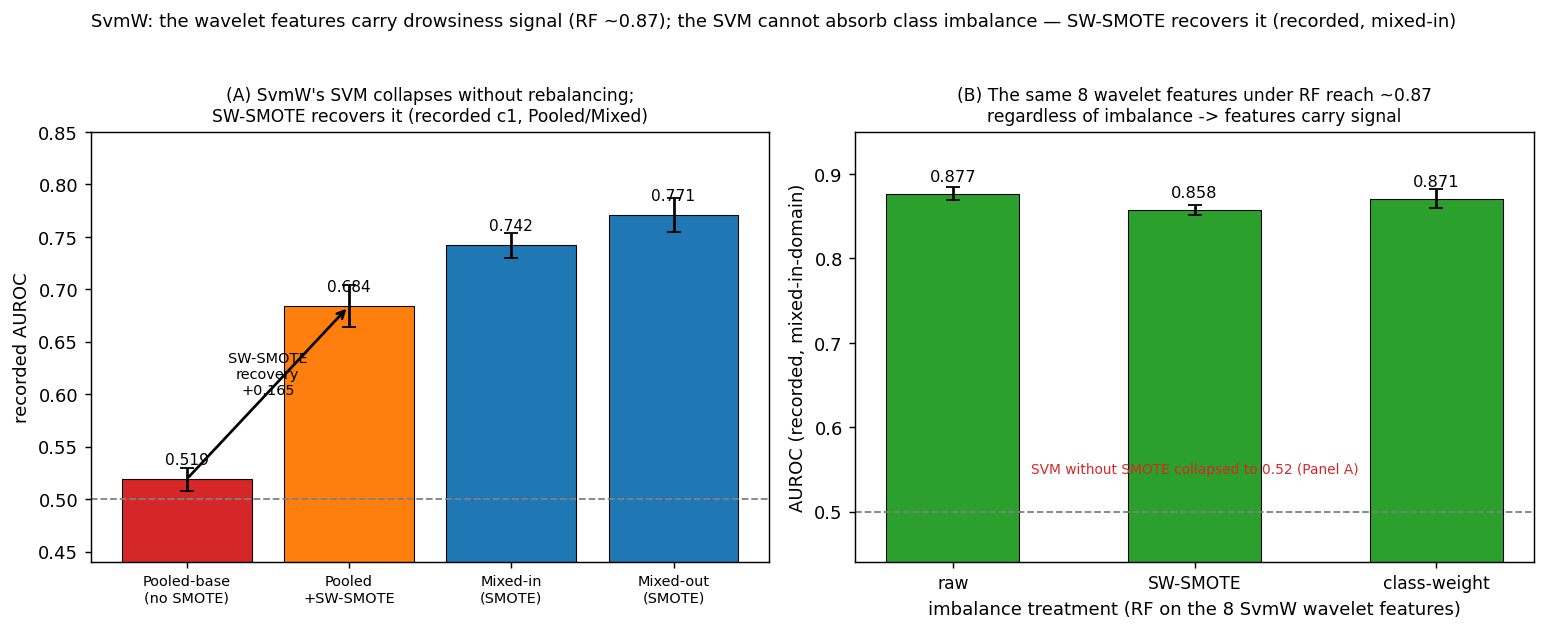
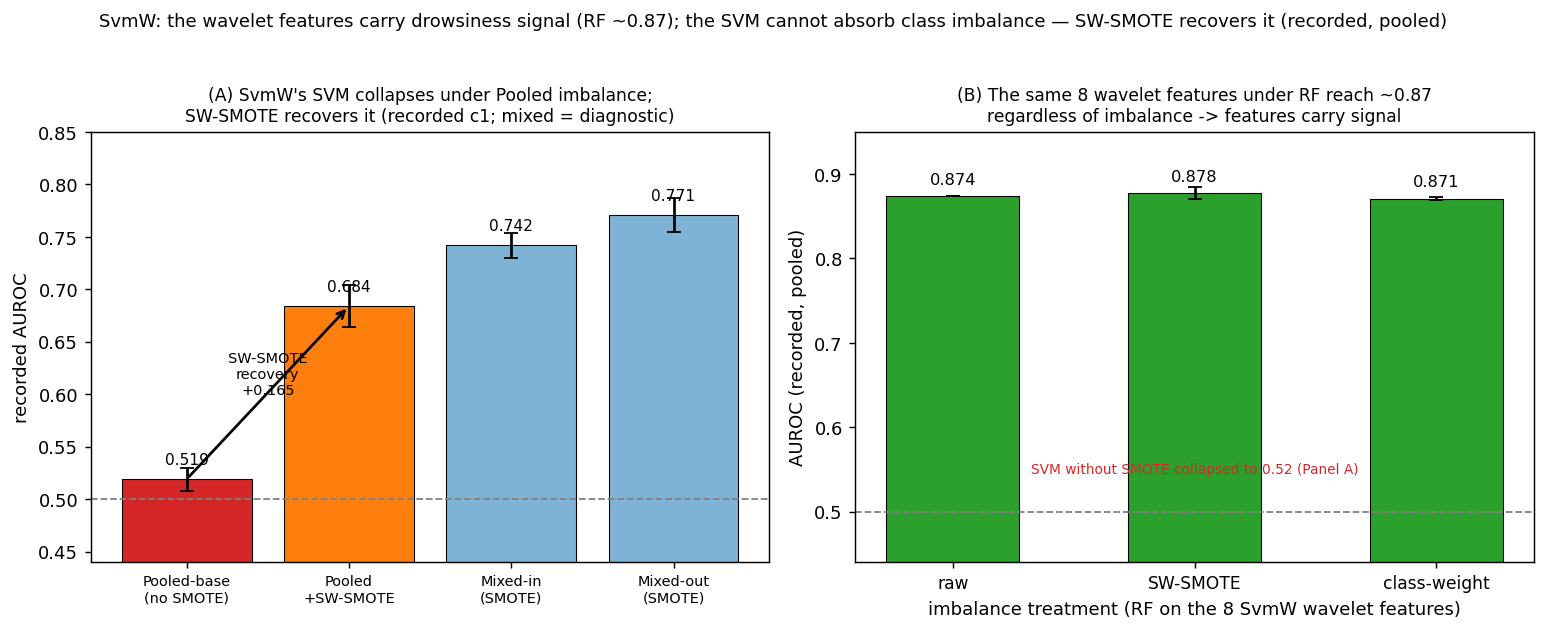
docs(exp3): retarget Part B probes to pooled (deployment regime); mixed-in kept as diagnostic
Ran the D1b/D4/D5 mechanism probes under pooled (train on all 87 recordings,
evaluate on the whole cohort) per the pooled-anchoring decision. All three
acceptance criteria pass under pooled and reproduce the mixed-in diagnostic:
- B1 dose-response saturates by k~=20 (anchors RF-fs 0.795 / RF-nofs 0.866)
- B2 SvmA 36 steering: RF 0.893 vs RBF-SVM 0.544 (all-165 RF 0.904) -> learner ceiling
- B3 SvmW 8 wavelet -> RF ~0.87 (0.874/0.878/0.871) regardless of imbalance
Updates figs 5-7, D1b/D4/D5 text, the status/migration notes, and Part B of the
plan doc; fixes the stale plan-doc link.

diff --git a/docs/experiments/results/exp3-analysis/c1_recorded_value_analysis.md b/docs/experiments/results/exp3-analysis/c1_recorded_value_analysis.md
@@ -19,16 +19,17 @@ performance.
 - **Reproducibility:** `scripts/python/analysis/exp3_c1_recorded_value_analysis.py`. Tools:
   scipy / numpy / pandas / matplotlib (Dunn, Cliff's δ, Scheirer–Ray–Hare implemented in-script).
 
-> **Status (2026-08-01).** The mixed-in Part B probes behind Figures 5–7 are complete. The
-> Pooled-SW-SMOTE and RF-nofs descriptive cells remain provisional while the final RF-nofs
-> extension completes (51/60 c1 cells at this checkpoint); regenerate the summary tables and
-> statistical tests after that final artifact set is available.
+> **Status (2026-08-01).** The Part B mechanism probes (Figures 5–7) are complete under **pooled**
+> (the deployment regime), with **mixed-in retained as a diagnostic** that reproduces every claim.
+> The Pooled-SW-SMOTE and RF-nofs descriptive cells remain provisional while the final RF-nofs
+> extension completes; regenerate the summary tables and statistical tests after that final artifact
+> set is available.
 
-> **Migration in progress — see [mixed_regime_migration.md](mixed_regime_migration.md).** The two
+> **Migration in progress — see [within_retirement_plan.md](within_retirement_plan.md).** The two
 > Within modes are being retired because `within` trains only on the target group, discarding the
-> other group's data. The deployable regimes retained for reporting are Pooled and Mixed. The
-> Part B mechanism probes now use `mixed_in`; Part A will rebuild Sections A–E without the Within
-> columns once the RF-nofs seed extension is complete.
+> other group's data. The deployable regimes retained for reporting are Pooled (primary) and Mixed
+> (diagnostic). The Part B mechanism probes (§D1b, §D4, §D5) now report `pooled`; Part A will
+> rebuild Sections A–E without the Within columns once the RF-nofs seed extension is complete.
 
 ---
 
@@ -122,26 +123,30 @@ dependence **saturates by k≈20**, so it is not an open-ended benefit of ever-m
 
 ### D1b. Feature-count dose-response — where does the gain saturate?
 
-The controlled probe is complete under **mixed-in-domain** evaluation (plain RF, RF-importance
-top-k, recorded evaluation, 3 seeds). It compares selecting top-k after SW-SMOTE (the c1 pipeline
-order) with selecting on the natural training data.
+The controlled probe is complete under **pooled** evaluation — the deployment regime that scores
+the model on the whole 87-recording cohort (plain RF, RF-importance top-k, recorded evaluation, 3
+seeds). It compares selecting top-k after SW-SMOTE (the c1 pipeline order) with selecting on the
+natural training data.
 
 **The dependence is not monotone to 165 — it saturates by k≈20 in both selection orders.** The
-c1-order curve rises sharply before k=20 and stays around 0.90 thereafter; natural-data selection
-is already near that plateau by k=5–10. The recorded mixed-in anchors are RF-fs k=10 = 0.719 and
-RF-nofs k=165 = 0.829, which are not directly comparable to the simplified probe's absolute
-levels. The transferable result is the saturation shape, not the raw level.
+c1-order curve rises sharply before k=20 (0.69 at k=5 → 0.90 at k=20) and stays around 0.91
+thereafter; natural-data selection is already near that plateau by k=5–10. The recorded pooled
+anchors are RF-fs (Pooled-SW-SMOTE) = 0.795 and RF-nofs = 0.866, which are not directly comparable
+to the simplified probe's absolute levels. The transferable result is the saturation shape, not the
+raw level. The same k≈20 knee **reproduces under mixed-in** (the diagnostic regime; anchors 0.719 /
+0.829).
 
-Practical reading: **the mixed-in probe supports a compact feature set (approximately 20
-vehicle-dynamics features); the top-10 arm's low recorded value is primarily consistent with the
+Practical reading: **the probe supports a compact feature set (approximately 20 vehicle-dynamics
+features); the top-10 arm's low recorded value is primarily consistent with the
 SMOTE-before-selection order rather than with ten features being intrinsically insufficient.**
 
 ![RF feature-count dose-response](figures/c1_recorded/fig5_feature_dose_response.png)
 
-*Figure 5. Recorded mixed-in-domain AUROC vs feature count k. Both selection orders plateau by
-k≈20; the recorded c1 anchors (RF-fs k=10 = 0.719 ★, RF-nofs k=165 = 0.829 ◆) bracket the curve.
-Probe = plain RF with fixed hyperparameters and a simplified evaluation split, so absolute levels
-are not directly comparable to the tuned c1 pipeline; the saturation shape is what transfers.*
+*Figure 5. Recorded pooled AUROC vs feature count k. Both selection orders plateau by k≈20; the
+recorded c1 anchors (RF-fs k=10 = 0.795 ★, RF-nofs k=165 = 0.866 ◆) sit below the curve. Probe =
+plain RF with fixed hyperparameters and a simplified evaluation split, so absolute levels are not
+directly comparable to the tuned c1 pipeline; the saturation shape is what transfers (and it
+reproduces under mixed-in, the diagnostic regime).*
 
 ### D2. Decision spread / degeneracy (specificity, predicted-positive rate)
 
@@ -188,23 +193,22 @@ SvmA records the lowest AUROC of all methods (A: 0.53–0.60 within/mixed; 0.481
 recorded-value basis the cause is the *learner*, not the steering feature set and not class
 imbalance.
 
-**Same features, different learner (recorded mixed-in-domain).** SvmA's own 36 steering features
-fed to RF reach 0.877, close to the full 165-feature vehicle set (0.889), whereas an RBF-SVM
-(SvmA's learner) on the same 36 features gives only 0.544, matching the recorded SvmA mixed-in
-band (0.532, A). The steering feature set is therefore not the bottleneck under the recorded
-protocol: it yields as much recorded separability as the full set when a tree ensemble reads it;
-the RBF-SVM cannot.
+**Same features, different learner (recorded pooled).** SvmA's own 36 steering features fed to RF
+reach 0.893, close to the full 165-feature vehicle set (0.904), whereas an RBF-SVM (SvmA's learner)
+on the same 36 features gives only 0.544, matching the recorded SvmA Pooled-SW-SMOTE band (0.569,
+A). The steering feature set is therefore not the bottleneck under the recorded protocol: it yields
+as much recorded separability as the full set when a tree ensemble reads it; the RBF-SVM cannot.
 
-| Feature set → learner | Recorded AUROC |
+| Feature set → learner | Recorded AUROC (pooled) |
 |---|---|
-| SvmA 36 steering → RF | 0.877 |
+| SvmA 36 steering → RF | 0.893 |
 | SvmA 36 steering → RBF-SVM | 0.544 |
-| all 165 vehicle → RF | 0.889 |
+| all 165 vehicle → RF | 0.904 |
 
-**Imbalance treatment does not lift the SVM.** Under the mixed-in recorded split, neither
-SW-SMOTE nor class weighting moves the RBF-SVM off approximately 0.54, while RF stays around
-0.87–0.88 across the same treatments. Class imbalance is therefore not the cause of SvmA's low
-score in this regime.
+**Imbalance treatment does not lift the SVM.** Under the pooled recorded split, neither SW-SMOTE
+nor class weighting moves the RBF-SVM off approximately 0.55 (0.558 / 0.557 / 0.544), while RF stays
+around 0.88–0.90 across the same treatments. Class imbalance is therefore not the cause of SvmA's
+low score. (The learner gap reproduces as a diagnostic under mixed-in: RF 0.877 vs RBF-SVM 0.544.)
 
 **SvmA's bottom rank is thus a learner limitation** (RBF-SVM on steering features), not a deficient
 feature set and not an imbalance artefact — unlike SvmW, whose Pooled degeneracy *is* a
@@ -212,10 +216,11 @@ decision-function artefact that SW-SMOTE repairs (D2).
 
 ![SvmA learner vs feature effect](figures/c1_recorded/fig6_svma_learner_vs_feature.png)
 
-*Figure 6. Recorded mixed-in-domain AUROC. (A) The same 36 steering features reach the full-set
-ceiling under RF (0.877 vs 0.889) but only 0.544 under the RBF-SVM that SvmA uses (≈ its recorded
-c1 value 0.532). (B) Neither SW-SMOTE nor class weighting lifts the RBF-SVM off ~0.54, while RF
-stays ~0.87–0.88. Probe = plain learners on a recorded-style split; the learner contrast is the point.*
+*Figure 6. Recorded pooled AUROC. (A) The same 36 steering features reach the full-set ceiling
+under RF (0.893 vs 0.904) but only 0.544 under the RBF-SVM that SvmA uses (≈ its recorded c1
+Pooled-SW-SMOTE value 0.569). (B) Neither SW-SMOTE nor class weighting lifts the RBF-SVM off ~0.55,
+while RF stays ~0.88–0.90. Probe = plain learners on a recorded-style split; the learner contrast is
+the point (and it reproduces under mixed-in, the diagnostic regime).*
 
 ### D5. SvmW under imbalance: a recoverable learner degeneracy, not a feature deficit
 
@@ -235,22 +240,23 @@ modes (A).
 | +SW-SMOTE | 0.684 | 0.504 | 0.506 | 0.199 |
 
 **The features carry the signal.** The failure is the SVM's, not the feature set's: feeding SvmW's
-8 steering-wheel wavelet features to RF (recorded-style, mixed-in) gives ~0.87 under *every*
-imbalance treatment — raw 0.877, SW-SMOTE 0.858, class-weight 0.871 (Fig 7B) — so a robust learner
+8 steering-wheel wavelet features to RF (recorded-style, pooled) gives ~0.87 under *every*
+imbalance treatment — raw 0.874, SW-SMOTE 0.878, class-weight 0.871 (Fig 7B) — so a robust learner
 reads the recorded signal from them without any rebalancing, and once imbalance is handled the SVM
 itself reaches 0.74–0.80. SvmW's low Pooled score is therefore a *recoverable* decision-function
 degeneracy under imbalance — the mirror image of SvmA, whose low score is a learner ceiling that
-rebalancing does not lift (D4).
+rebalancing does not lift (D4). (The ~0.87 RF read reproduces as a diagnostic under mixed-in:
+0.877 / 0.858 / 0.871.)
 
 ![SvmW imbalance collapse and SW-SMOTE recovery](figures/c1_recorded/fig7_svmw_imbalance_recovery.png)
 
 *Figure 7. (A) Recorded SvmW AUROC by regime: Pooled-base collapses to ~0.52 (all-positive),
-SW-SMOTE recovers it to 0.684, and with SW-SMOTE the Within/Mixed modes reach 0.74–0.80. (B) The
-same 8 steering-wheel wavelet features fed to RF reach ~0.87 under every imbalance treatment (raw
-0.877, SW-SMOTE 0.858, class-weight 0.871) — a robust learner reads the recorded signal without
-rebalancing, so SvmW's collapse is a learner–imbalance interaction, not a feature deficit. (The
-de-degeneration metrics — specificity 0.004→0.504, predicted-positive rate 0.997→0.506, probability
-SD 0.001→0.199 — are tabulated above.)*
+SW-SMOTE recovers it to 0.684 (mixed shown as diagnostic). (B) The same 8 steering-wheel wavelet
+features fed to RF reach ~0.87 under every pooled imbalance treatment (raw 0.874, SW-SMOTE 0.878,
+class-weight 0.871) — a robust learner reads the recorded signal without rebalancing, so SvmW's
+collapse is a learner–imbalance interaction, not a feature deficit. (The de-degeneration metrics —
+specificity 0.004→0.504, predicted-positive rate 0.997→0.506, probability SD 0.001→0.199 — are
+tabulated above.)*
 
 ### D6. Lstm: insensitive to imbalance, governed by the evaluation regime
 

diff --git a/docs/experiments/results/exp3-analysis/within_retirement_plan.md b/docs/experiments/results/exp3-analysis/within_retirement_plan.md
@@ -1,8 +1,9 @@
 # exp3 — Migration of the Recorded-Value Analysis to the Pooled/Mixed Regimes
 
 **Status: IN PROGRESS (2026-08-01).** Part B is complete: its three mechanism probes have been
-re-run under `mixed_in` and are reflected in Figures 5–7. Part A remains pending until the active
-RF-nofs seed extension completes and the recorded-value aggregation can be regenerated. The
+re-run under **pooled** (the deployment regime, primary) and under **mixed-in** (diagnostic), and
+are reflected in Figures 5–7; both regimes reproduce every claim. Part A remains pending until the
+active RF-nofs seed extension completes and the recorded-value aggregation can be regenerated. The
 TIV2026_exp3 manuscript will be revised in one pass from that finalized public artifact set.
 
 ## 1. Decision and rationale
@@ -61,30 +62,33 @@ Note on §E: with only two modes left the "the domain sub-modes do not differ" r
 much weaker design than the current 4-mode one. Report the new df and p honestly; if the mode
 effect is no longer estimable in a useful way, say so rather than restating the old conclusion.
 
-## 3. Part B — mixed-in probe runs completed
+## 3. Part B — probe runs completed (pooled primary, mixed-in diagnostic)
 
-The three probes were re-run under **mixed-in** using the same plain-learner harness, fixed
-hyperparameters, simplified split, and seed count. Figures 5–7 now contain these mixed-in values.
+The three probes were re-run under **pooled** (the deployment regime) and, as a diagnostic, under
+**mixed-in**, using the same plain-learner harness, fixed hyperparameters, simplified split, and
+seed count. Figures 5–7 now report the pooled values; every claim reproduces under both regimes.
 
 ### B1. Feature-count dose–response (report §D1b, Fig. 5)
 
-- **Result**: both selection orders plateau by k≈20 under mixed-in. The recorded anchors are
-  RF-fs k=10 = 0.719 and RF-nofs k=165 = 0.829. The mechanism claim is retained: the low top-10
-  arm is primarily consistent with selecting features after SW-SMOTE rather than with ten
-  features being intrinsically insufficient.
+- **Result (pooled)**: both selection orders plateau by k≈20 (c1-order 0.69 at k=5 → 0.90 at k=20,
+  then ~0.91; natural near-plateau by k=5–10). Recorded pooled anchors RF-fs = 0.795, RF-nofs =
+  0.866. **Mixed-in diagnostic** reproduces the k≈20 knee (anchors 0.719 / 0.829). The mechanism
+  claim is retained: the low top-10 arm is primarily consistent with selecting features after
+  SW-SMOTE rather than with ten features being intrinsically insufficient.
 
 ### B2. SvmA learner-versus-feature-set probe (report §D4, Fig. 6)
 
-- **Result**: on the same 36 steering features, RF = 0.877 and RBF-SVM = 0.544; RF on all 165
-  vehicle features = 0.889. Across raw, SW-SMOTE, and class-weight treatments, RF remains
-  ~0.87–0.88 while RBF-SVM remains ~0.54.
+- **Result (pooled)**: on the same 36 steering features, RF = 0.893 and RBF-SVM = 0.544; RF on all
+  165 vehicle features = 0.904. Across raw / SW-SMOTE / class-weight, RF stays ~0.88–0.90 while
+  RBF-SVM stays ~0.55 (0.558 / 0.557 / 0.544). **Mixed-in diagnostic**: RF 0.877 vs RBF-SVM 0.544
+  (gap holds; 0.877/0.889 vs 0.544).
 - **Conclusion retained**: SvmA's bottom rank is a learner ceiling, not a feature-set deficit or
   imbalance artifact.
 
 ### B3. SvmW wavelet-feature probe (report §D5, Fig. 7 panel B)
 
-- **Result**: SvmW's 8 GHM steering-wavelet features fed to RF give raw 0.877, SW-SMOTE 0.858,
-  and class-weight 0.871 under mixed-in.
+- **Result (pooled)**: SvmW's 8 GHM steering-wavelet features fed to RF give raw 0.874, SW-SMOTE
+  0.878, class-weight 0.871. **Mixed-in diagnostic**: 0.877 / 0.858 / 0.871.
 - **Conclusion retained**: a learner that does not degenerate reads the recorded signal from
   these features without rebalancing, so SvmW's pooled collapse is a learner–imbalance
   interaction rather than a feature deficit.
